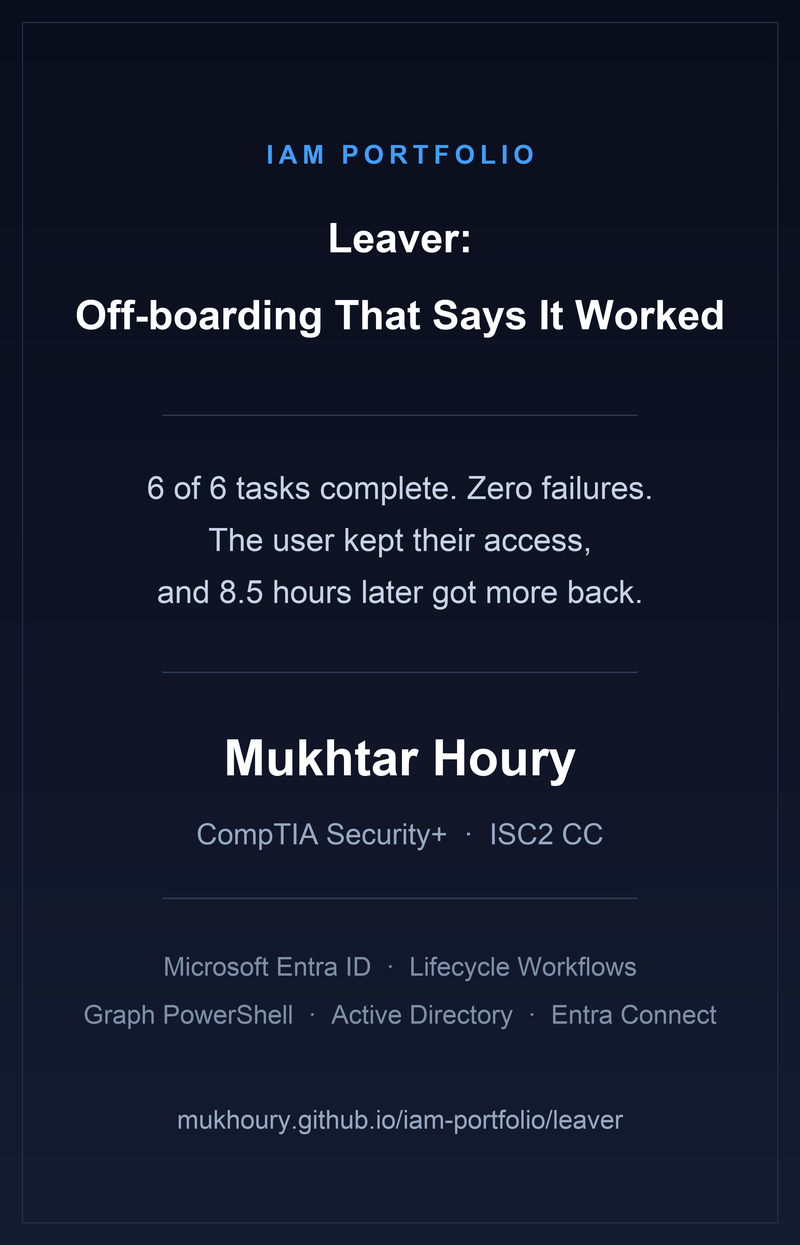
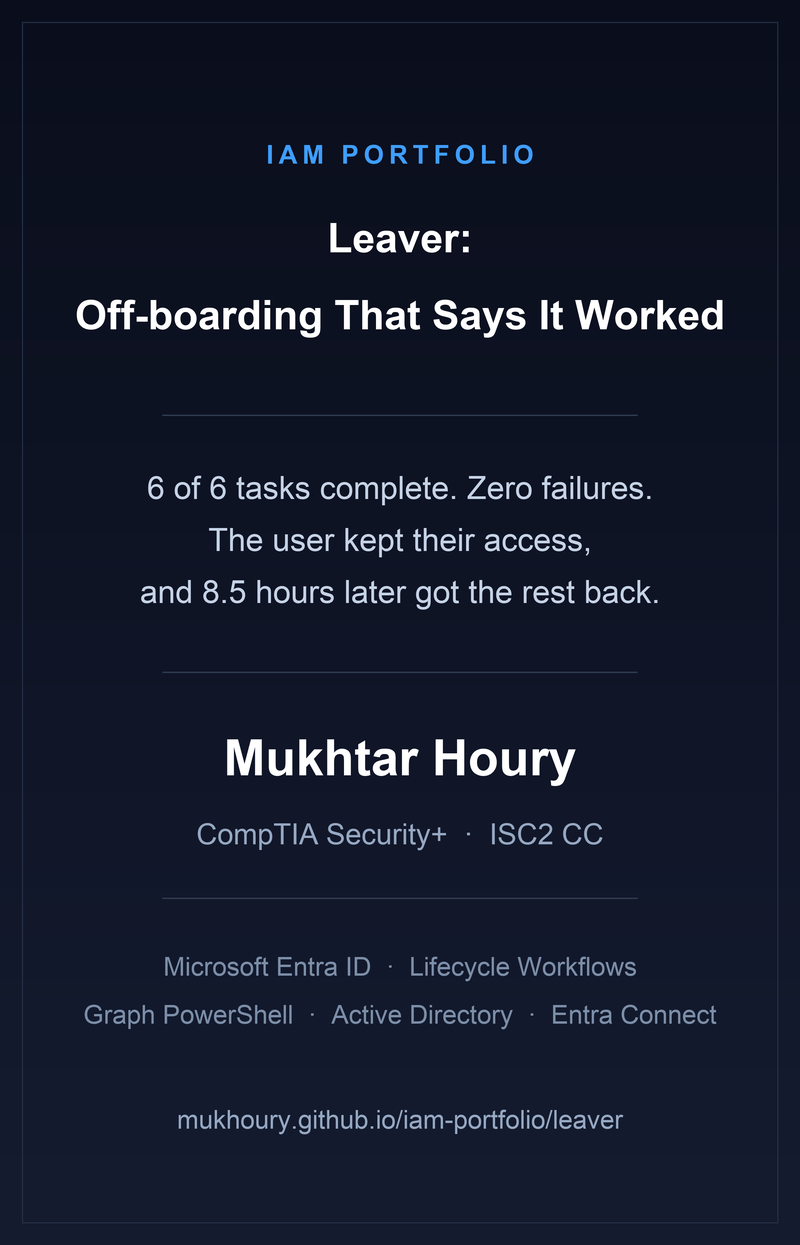
Tighten Leaver card wording

Changed region(s): [[0.1562, 0.4578, 0.8125, 0.4884]]

diff --git a/assets/make-leaver-preview.py b/assets/make-leaver-preview.py
@@ -70,7 +70,7 @@ rule(415)
 desc = [
     "6 of 6 tasks complete. Zero failures.",
     "The user kept their access,",
-    "and 8.5 hours later got more back.",
+    "and 8.5 hours later got the rest back.",
 ]
 f_desc = fit(max(desc, key=len), REG, 32, CONTENT)
 for i, line in enumerate(desc):
